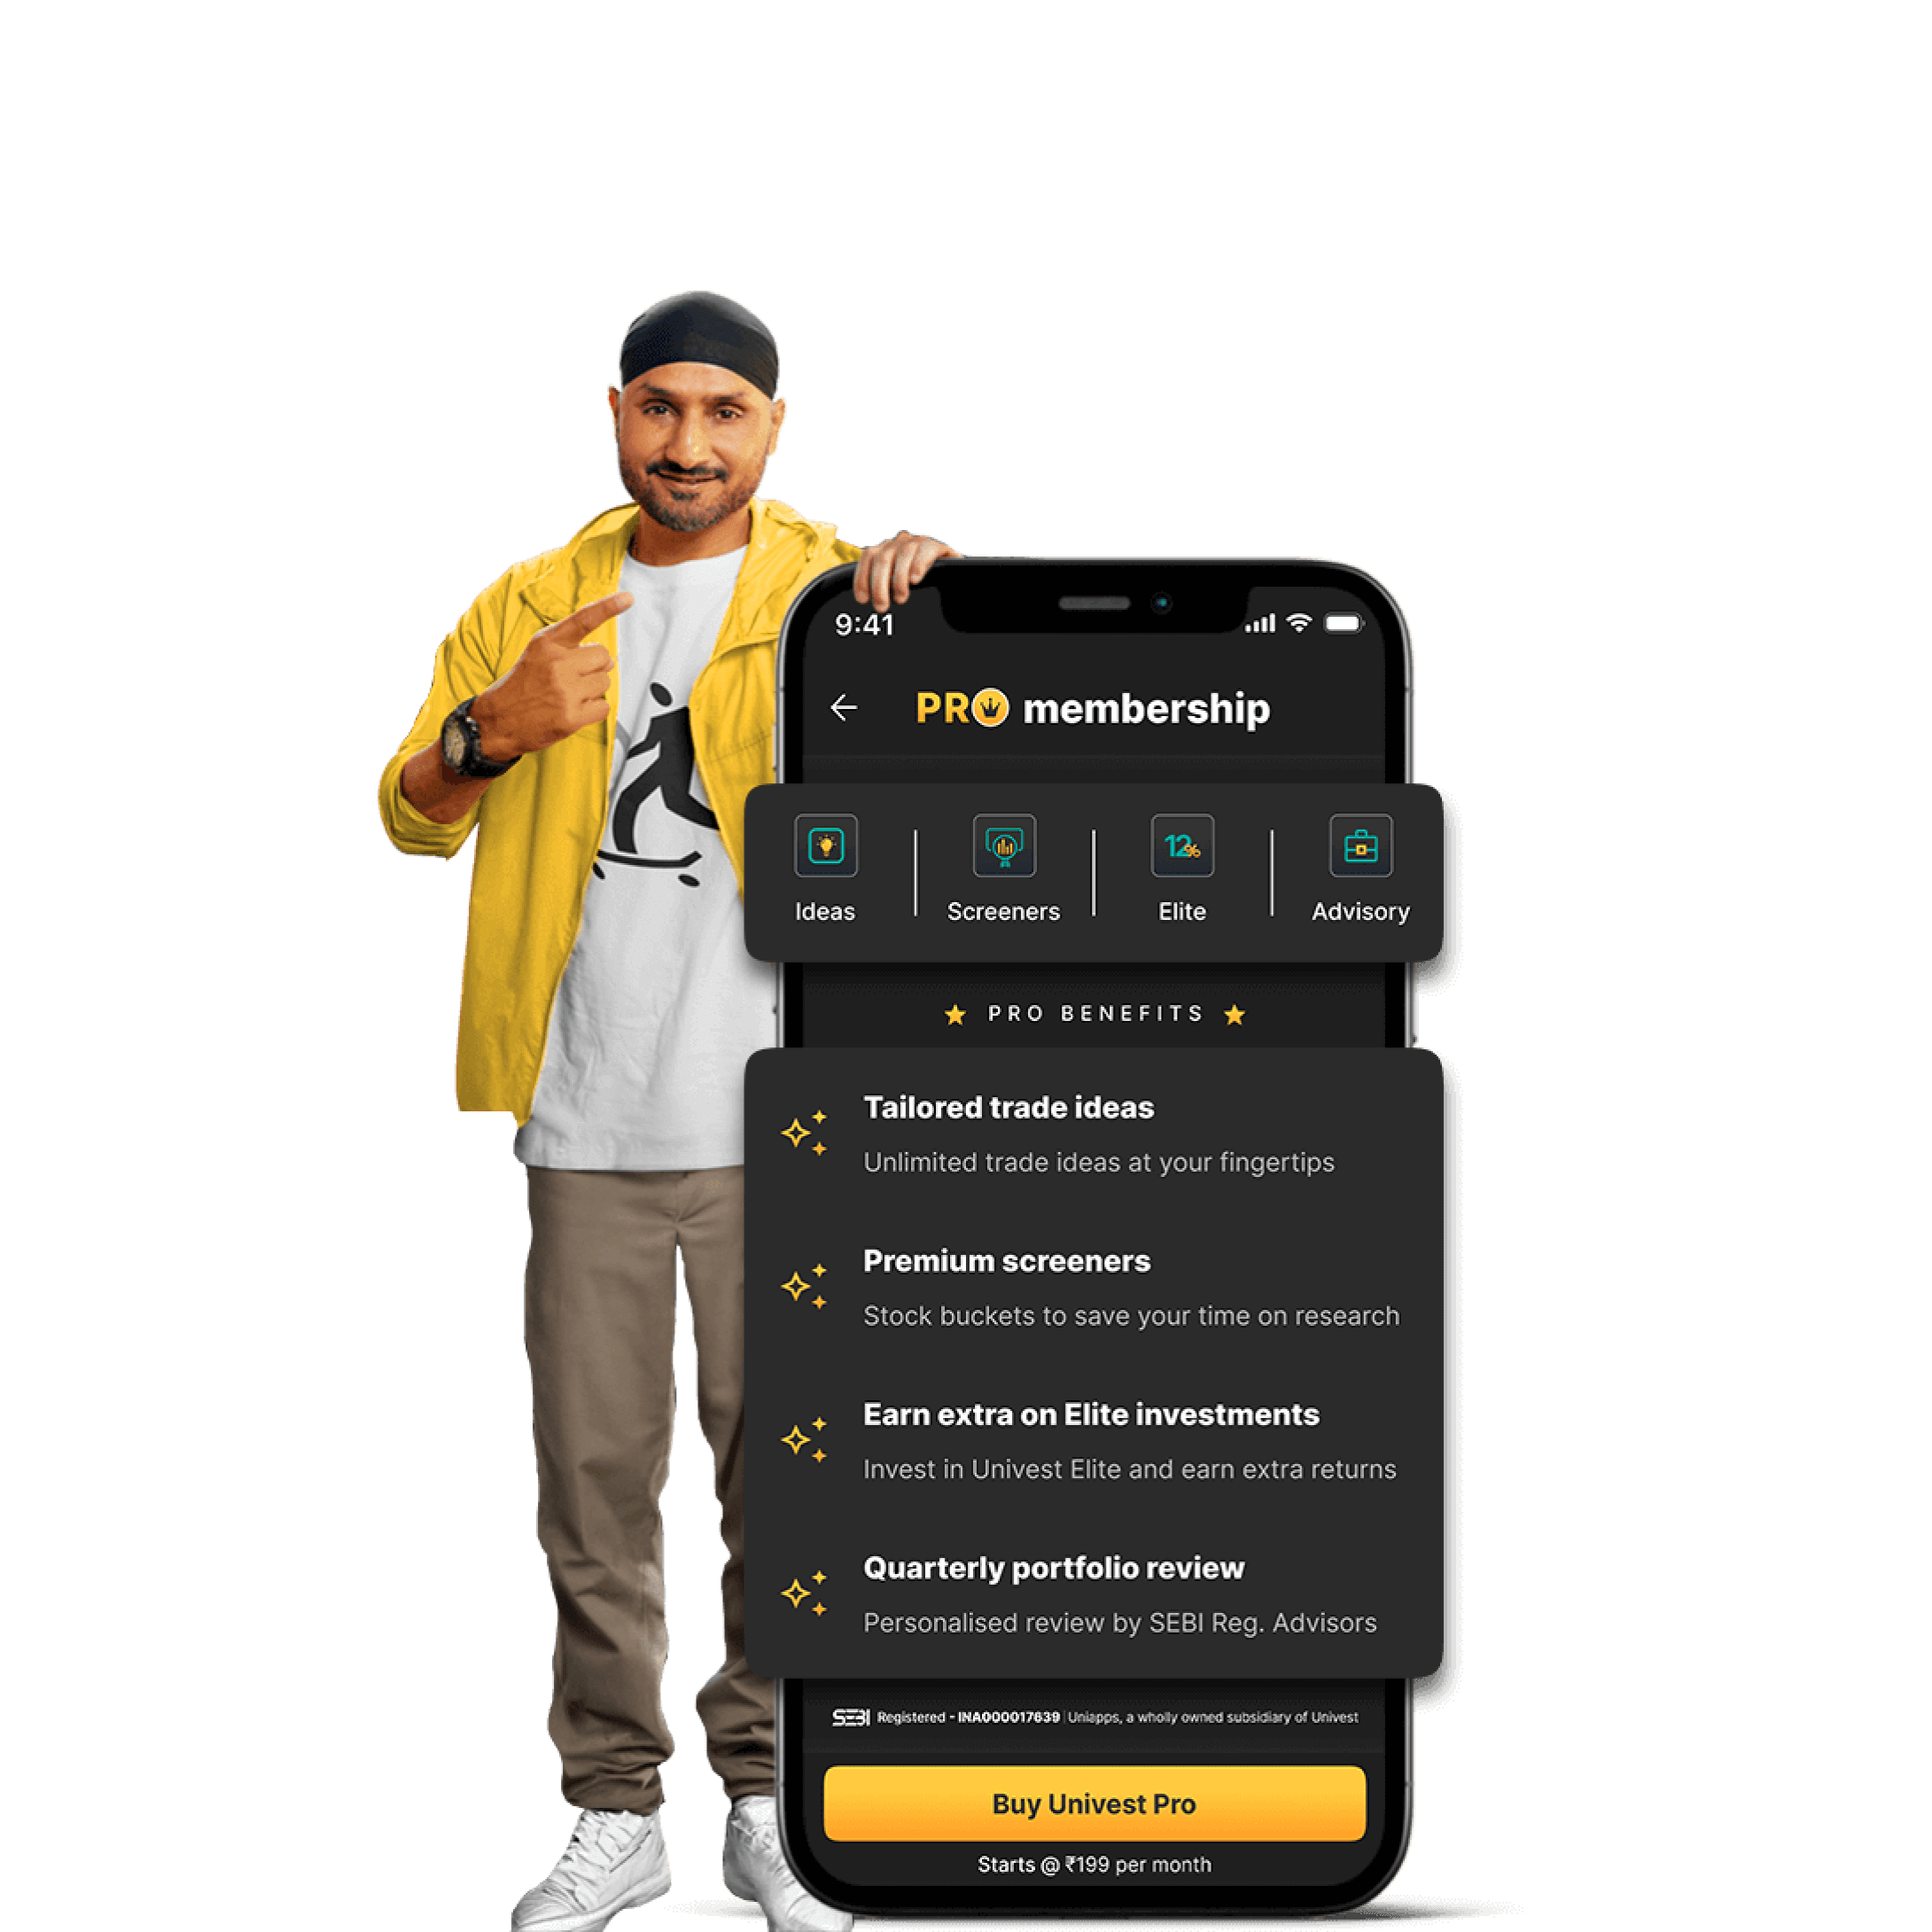
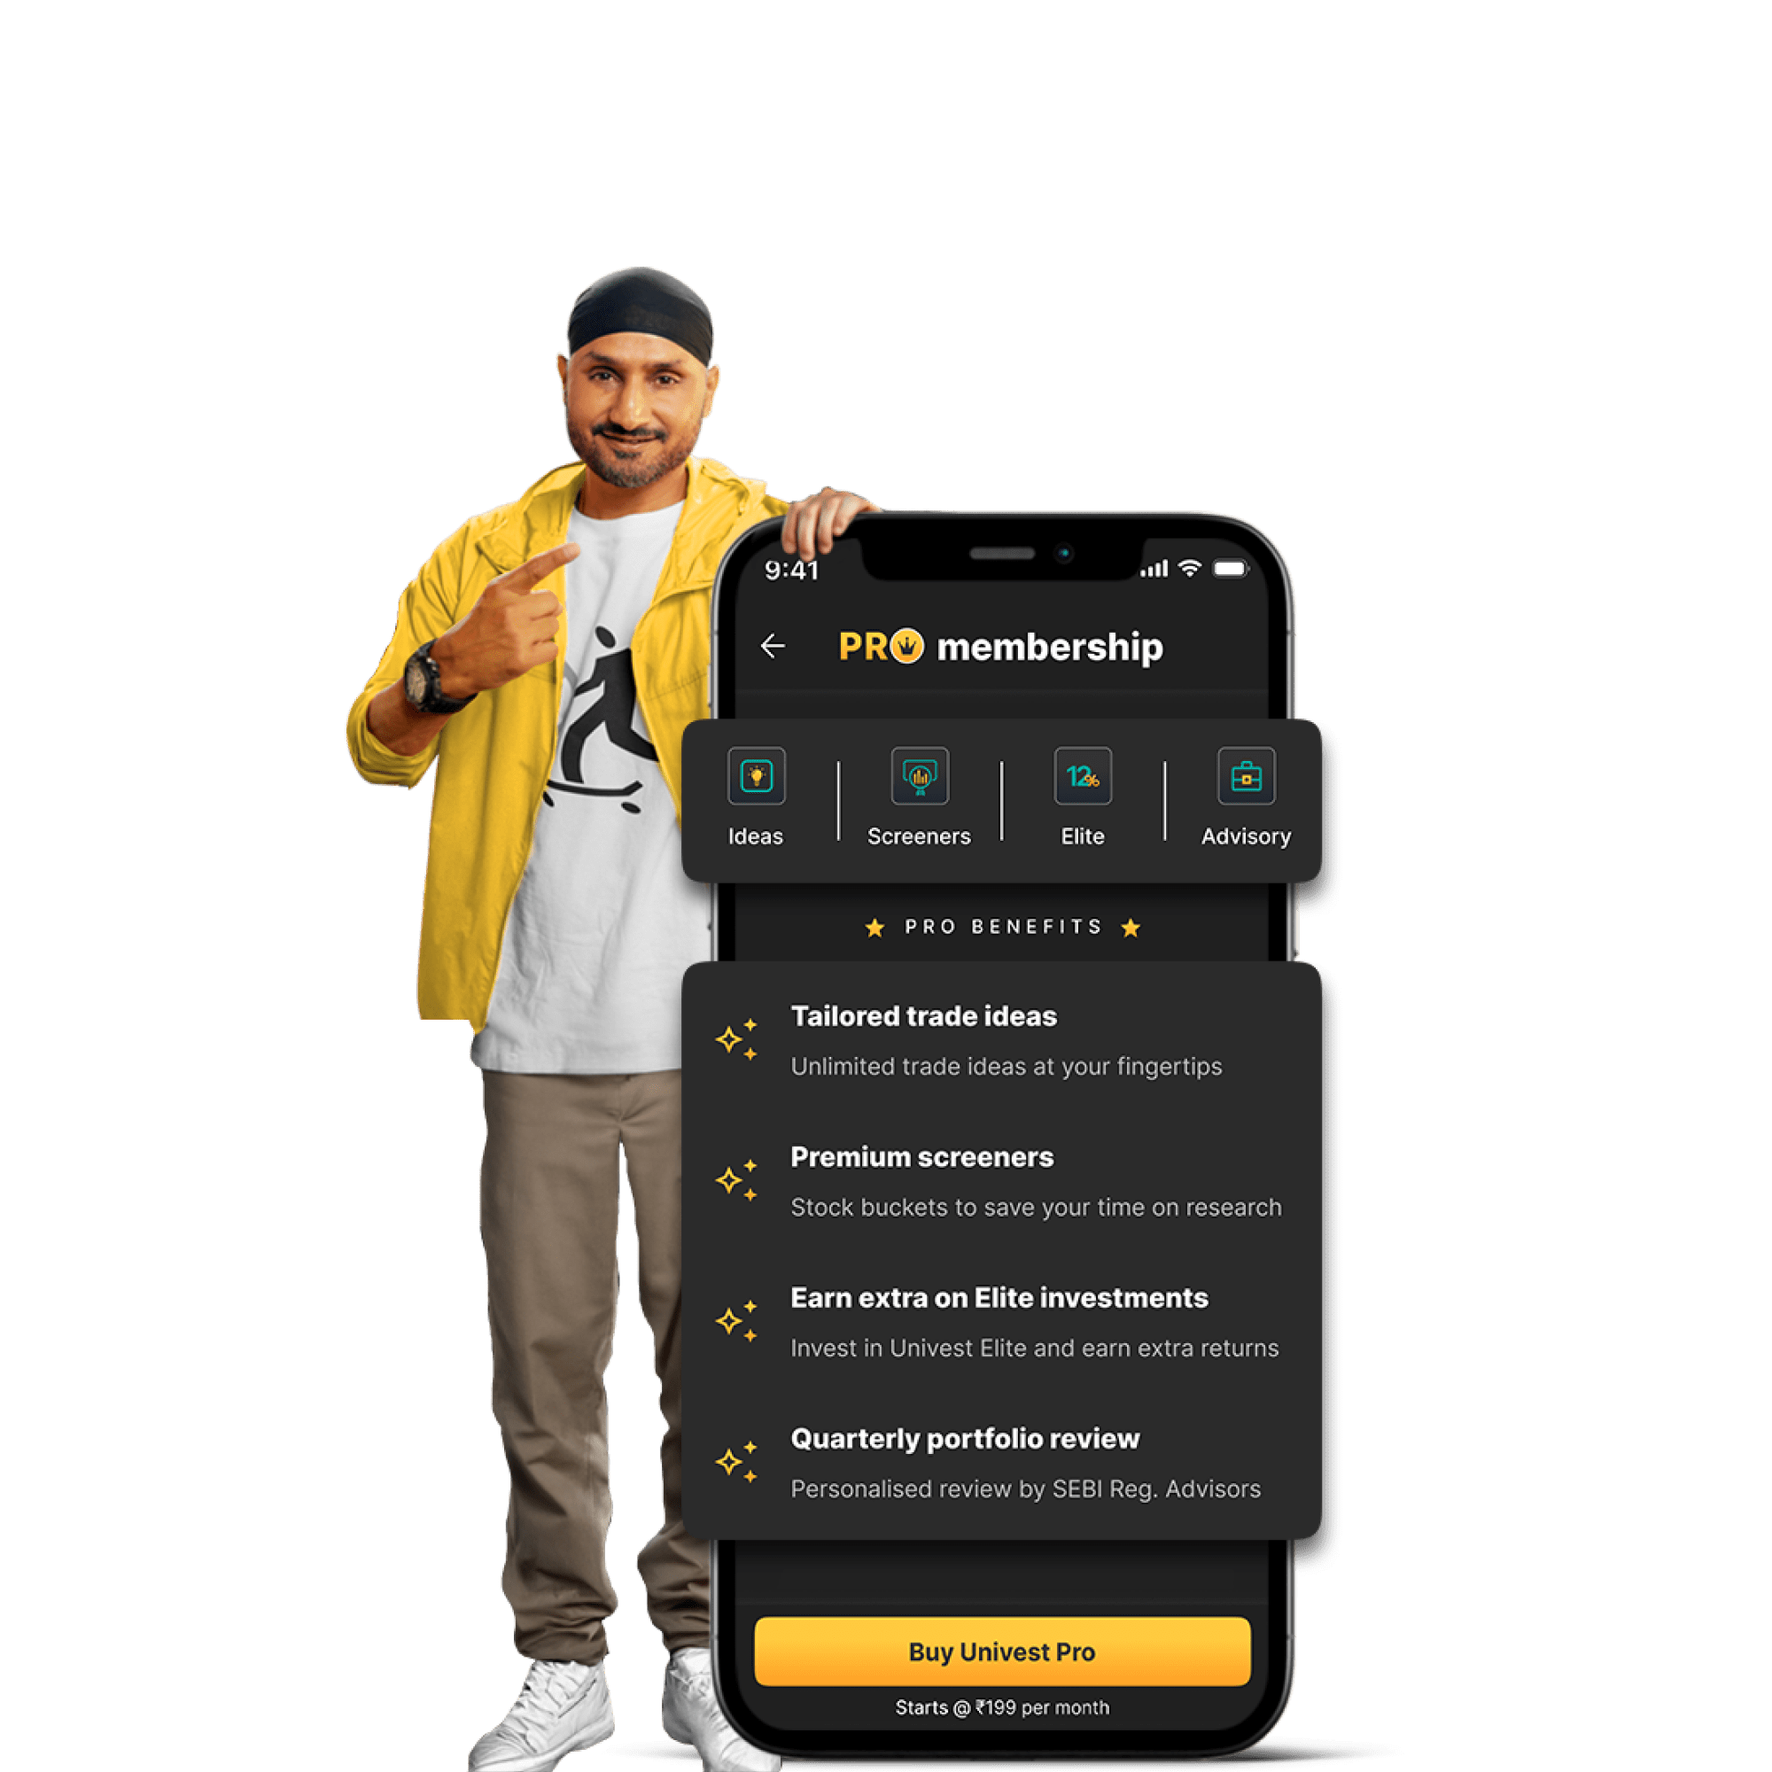
bug fixed

diff --git a/src/pages/index.js b/src/pages/index.js
@@ -9,6 +9,7 @@ import WhyShouldSection from "@/components/Elite/WhyShouldSection";
 import MetaSection from "@/elements/MetaSection/MetaSection";
 import { useEffect } from "react";
 import { Mixpanel } from "@/elements/Mixpanel";
+import axios from "axios";
 
 
 const data = [
@@ -30,7 +31,7 @@ const data = [
   },
 ]
 
-export default function HomePage() {
+export default function HomePage({ planData }) {
   useEffect(() => {
     Mixpanel.track(
       'page_viewed',
@@ -43,7 +44,7 @@ export default function HomePage() {
       title='Stock Analysis, Invest in Stocks, Best Financial Tools, Invest in P2P, Investment ideas'
       desc='Best financial tools to analyse Indian stocks to research better, exit bad investments and invest smarter. Invest in high return plans with Elite and earn upto 12%'
       keyWords='Stock screener, NSE stocks, Indian stock market, stock analysis tool, stock research tool, Smart Investment, Market News, Share Market News, Share Market news, finance news, IPO News, Investment ideas, Trading ideas' />
-    <HeroSection />
+    <HeroSection start_at={planData?.start_at} />
     <WhyUnivestSection />
     <ProductSection />
     <WhyShouldSection homePage={true} />
@@ -52,4 +53,14 @@ export default function HomePage() {
     <UserFeedbacksSection />
     <EliteFAQSection data={data} />
   </>)
+}
+
+export async function getStaticProps(ctx) {
+  const res = await axios.get(`${process.env.apiBaseURL}/resources/pro-membership/plans`)
+
+  return {
+    props: {
+      planData: res.data
+    }
+  }
 }

diff --git a/src/components/ProPage/ProPlansAvailableSection.js b/src/components/ProPage/ProPlansAvailableSection.js
@@ -3,18 +3,21 @@ import { popUp } from "@/elements/PopUp/PopUp"
 
 const localData = [
     {
+        "planId": "plan1",
         "planName": "12 months",
         "displayAmount": 5999,
         "discountedAmount": 2399,
         "renewalPrice": 2399,
     },
     {
+        "planId": "plan2",
         "planName": "6 months",
         "displayAmount": 2999,
         "discountedAmount": 1499,
         "renewalPrice": 1499,
     },
     {
+        "planId": "plan3",
         "planName": "3 months",
         "displayAmount": 1499.0,
         "discountedAmount": 999,
@@ -22,7 +25,7 @@ const localData = [
     }
 ]
 
-export default function ProPlansAvailableSection() {
+export default function ProPlansAvailableSection({ data }) {
     return (
         <section className="font-Inter ">
             <div className='max-w-screen-xl pt-24 mx-auto px-4 lg:px-8 overflow-hidden'>
@@ -30,7 +33,7 @@ export default function ProPlansAvailableSection() {
                     Available plans
                 </p>
                 <div className="flex gap-3 lg:gap-6 justify-between mt-6 lg:mt-14">
-                    {(data ?? localData)?.map(ele => <ProPlansCard key={ele.name} data={ele} />)}
+                    {(data ?? localData)?.map(ele => <ProPlansCard key={ele.planId} data={ele} />)}
                 </div>
             </div>
             <div className='flex justify-center mt-6 lg:mt-12'>

diff --git a/src/pages/pro.js b/src/pages/pro.js
@@ -26,13 +26,13 @@ export default function Pro({ pageName, data }) {
             title='Stock market investment ideas by SEBI Reg. Investment Advisor Uniapps'
             desc='Univest PRO is a advisory subscription for best stock market advisory and trading tips, market screeners, portfolio review and additional cashback on Elite investments'
             keyWords='bombay stock exchange, Indian stock market, bse, national stock exchange, Nifty, nse, sensex, stock exchange, stock market, stock research tool, smart investment, investment ideas, stock market tips' />
-        <ProHeroSection homePage={false} />
+        <ProHeroSection homePage={false} start_at={data?.start_at} />
         <ProBarSection />
         <IdeasSection isDark={true} />
         <ScreenersSection isDark={true} />
         <AvailablePlansSection />
         <QuarterlyPortfolioSection />
-        <ProPlansAvailableSection />
+        <ProPlansAvailableSection data={data?.list} />
         <UserFeedbacksSection isDark={true} />
         <ProFAQSection />
     </>)

diff --git a/src/components/ProPage/ProHeroSection.js b/src/components/ProPage/ProHeroSection.js
@@ -14,7 +14,7 @@ import { popUp } from "@/elements/PopUp/SEBIPopUp";
 
 
 
-export default function ProHeroSection({ homePage }) {
+export default function ProHeroSection({ homePage, start_at }) {
     const router = useRouter();
     return (
         <section id="Hero" className=" overflow-hidden bg-gradient-to-b from-[#343434] to-[#202732]">
@@ -24,7 +24,7 @@ export default function ProHeroSection({ homePage }) {
                         Univest <Image src={proIcon} alt='icon' className="w-[72px] h-8 lg:w-[122px] lg:h-[52px] ml-4" />
                     </div>
                     <div className='ml-4 lg:ml-0 text-base lg:text-xl font-semibold text-white'>
-                        Starts @₹199/month
+                        Starts @₹{start_at}/month
                     </div>
                     <div className='mt-8 ml-4 lg:ml-0  grid grid-cols-2 lg:grid-cols-5 justify-items-start gap-y-4 text-black'>
                         <div className="flex col-span-2 items-center" onClick={() => popUp.open()}>

diff --git a/src/components/Stocks/IdeasSection.js b/src/components/Stocks/IdeasSection.js
@@ -90,8 +90,8 @@ export default function IdeasSection({ isDark = false }) {
                                 modules={[Autoplay]}
                                 className="IdeasSection"
                             >
-                                {[...data?.data?.list, ...data?.data?.list,]?.map(ele =>
-                                    <SwiperSlide key={ele.id} >
+                                {[...data?.data?.list, ...data?.data?.list,]?.map((ele, i) =>
+                                    <SwiperSlide key={`${ele.id}-${i}`} >
                                         <div className="overflow-hidden flex flex-col justify-between h-full w-full bg-fixed bg-[length:144px_164px] " style={{ backgroundImage: `url(${mini_trade_card.src})` }} >
                                             <span className="mt-9 ml-3 text-[8px] font-medium text-[#606060]">
                                                 Shared on {moment(ele.createdAt).format("DD MMM YYYY")}

diff --git a/src/components/HomePage/HeroSection.js b/src/components/HomePage/HeroSection.js
@@ -12,7 +12,7 @@ import { BsApple } from "react-icons/bs";
 import Link from "next/link";
 import ProHeroSection from "../ProPage/ProHeroSection";
 
-export default function HeroSection() {
+export default function HeroSection({ start_at }) {
     return (
         <section className='relative lg:mb-20 font-Inter'>
             <Swiper
@@ -37,7 +37,7 @@ export default function HeroSection() {
                     <EliteHeroSection homePage={true} />
                 </SwiperSlide>
                 <SwiperSlide>
-                    <ProHeroSection homePage={true} />
+                    <ProHeroSection homePage={true} start_at={start_at} />
                 </SwiperSlide>
             </Swiper>
             <div className="absolute bottom-[-50px] lg:bottom-[-100px] z-[2] bg-no-repeat h-[110px] lg:h-[180px] w-full xxl:h-[220px] bg-cover" style={{ backgroundImage: `url(${heroBG.src})` }}>

diff --git a/src/components/Elite/EliteHeroSection.js b/src/components/Elite/EliteHeroSection.js
@@ -62,7 +62,7 @@ export default function EliteHeroSection({ homePage }) {
                     <Image
                         placeholder="blur"
                         src={homePage ? heroHome : hero}
-                        className={`lg:w-[500px] lg:min-w-[500px] object-contain z-[1] ${homePage ? 'ml-auto w-[60%]  mr-8 lg:mr-0' : 'mx-auto w-[80%]'}`}
+                        className={`lg:w-[500px] lg:min-w-[500px] object-contain z-[1] ${homePage ? 'ml-auto w-[50%]  mr-8 lg:mr-0' : 'mx-auto w-[80%]'}`}
                         alt='demo image'
                     />
                 </div>

diff --git a/src/components/HomePage/ProductSection.js b/src/components/HomePage/ProductSection.js
@@ -60,7 +60,6 @@ export default function ProductSection() {
         leave: { opacity: 0, transform: 'translateY(-10%)', delay: 3000, },
         config: { duration: 300 },
         onStart: (_a, _b, item) => {
-            // console.log(inView);
             if (item === state) {
                 if (state > brokerList.length - 2) {
                     setState(0)
